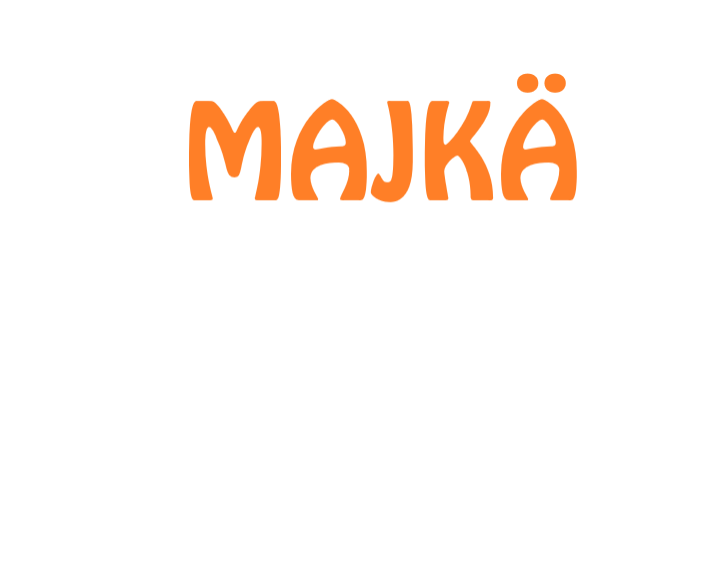
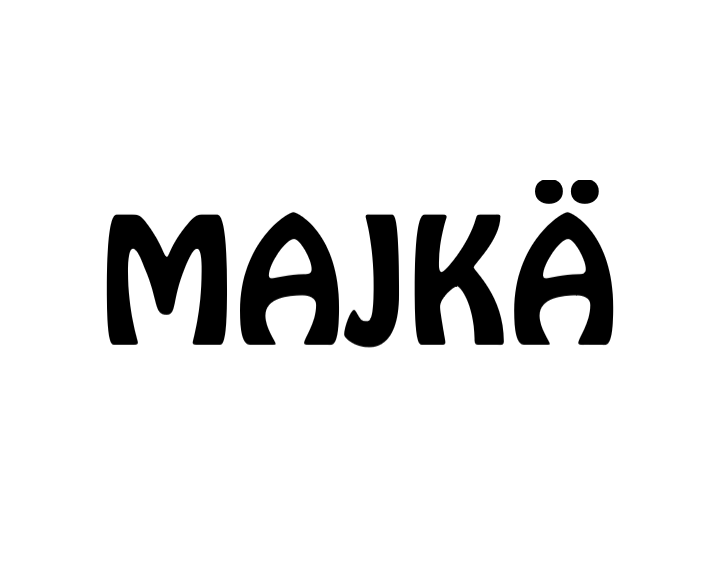
brunlol

Changed region(s): [[0.1239, 0.1199, 0.8676, 0.6296]]

diff --git a/src/videogame/Game.java b/src/videogame/Game.java
@@ -27,6 +27,7 @@ public class Game implements Runnable{
     private boolean pause;          // to pause the game
     private boolean manual;         // to show the manual of the game
     private boolean inDoor;
+    private boolean tutorial;       // to show the tutorial at the begining of the game
     private KeyManager keyManager;  // to manage the keyboard
     private MouseManager mouseManager; // to manage the mouse
     private Player player;          // first player
@@ -36,6 +37,8 @@ public class Game implements Runnable{
     private int level=0;              //for the level of the map
     private int x0,xf,y0,yf,dx,dy,px,py;  //data for the map limits and the doors
     private int enemies;            //number of enemies in each map
+    private int contador = 0;   // delay to shoot
+    int count=0;
     private Map map = new Map(0);                //to read the data of every map
     private BufferedImage mapImage;
     private ArrayList<Mob> hadoukens;      // simple hadoukens list
@@ -147,14 +150,15 @@ public class Game implements Runnable{
             if(this.getMouseManager().getX()>=482 && this.getMouseManager().getX() <= 891 && this.getMouseManager().getY()>=520 && this.getMouseManager().getY() <= 593)
                 System.exit(0);
         }
-        if(this.getKeyManager().P) {
+        if(this.getKeyManager().P && state == STATE.game) {
             this.setPause(!this.isPaused());
             this.setManual(false);
         } //for pausing the game
         
-        if(this.getKeyManager().M) this.setManual(!this.isManual()); // for showing the manual of the game
+        if(this.getKeyManager().M && state == STATE.game) this.setManual(!this.isManual()); // for showing the manual of the game
         
         if(!this.isPaused() && state == STATE.game){ // if the game is not paused then
+            contador++;
             if(spacebarCooldown == 0){
                 if(getKeyManager().Space){
                     spacebarCooldown = 30;
@@ -172,7 +176,7 @@ public class Game implements Runnable{
             player.tick();
             if(player.getX() <= dx+160 && player.getX()>=dx-160 &&player.getY()<=dy+160 && player.getY()>=dy-160 && spaniards.isEmpty()){
                 inDoor=true;
-                if(getKeyManager().Enter){                                    
+                if(getKeyManager().Enter && contador > 1200){                                    
                     level++;
                     loadMap();
                 }
@@ -231,7 +235,14 @@ public class Game implements Runnable{
             g = bs.getDrawGraphics();
             
             //Insert code here!!
-            if(isPaused()){ //for displaying the paused image
+            
+            if(count<=400){
+                g.drawImage(Assets.logo,0,0,this.getWidth(),this.getHeight(),null);
+                count++;
+            } else if(state == STATE.menu){
+                g.drawImage(Assets.logo,0,0,this.getWidth(),this.getHeight(),null);
+                g.drawImage(Assets.mainMenu,0,0,this.getWidth(),this.getHeight(),null);
+            } else if(isPaused()){ //for displaying the paused image
                 g.drawImage(mapImage, 0, 0, getWidth(), getHeight(), null);
                 if(spaniards.isEmpty())
                 if(dx==1370 || dx ==19)g.drawImage(Assets.door, dx, dy, -60, 200, null);
@@ -246,17 +257,15 @@ public class Game implements Runnable{
                 else{
                     g.drawImage(Assets.pause, 0, 0, width, height, null);
                 }
-            } else if(state == STATE.menu){
-                g.drawImage(Assets.mainMenu,0,0,this.getWidth(),this.getHeight(),null);
             } else if(!isPaused()){
                 g.drawImage(mapImage, 0, 0, getWidth(), getHeight(), null);
                 if(spaniards.isEmpty())
-                if(dx==1370 || dx ==19)g.drawImage(Assets.door, dx, dy, -60, 200, null);
-                else g.drawImage(Assets.door1, dx, dy, 200, 60, null);
+                    if(dx==1370 || dx ==19)g.drawImage(Assets.door, dx, dy, -60, 200, null);
+                    else g.drawImage(Assets.door1, dx, dy, 200, 60, null);
             
-                if(inDoor){
+                if(inDoor && contador > 1200){
                     g.setColor(Color.white);
-                    g.drawString("Press ENTER to use the door", player.getX(), player.getY()+120);
+                    g.drawString("Presiona ENTER para usar la puerta", player.getX(), player.getY()+120);
                 }
                     
                 //HADOUKENS!!!
@@ -275,6 +284,8 @@ public class Game implements Runnable{
                     popups.get(i).render(g);
                     if(popups.get(i).hasEnded())popups.remove(i);
                 }
+                if(contador <= 600) g.drawImage(Assets.texto1, 0, 2*getHeight()/3, getWidth(), getHeight()/3, null);
+                else if(contador >= 600 && contador <= 1200) g.drawImage(Assets.texto, 0, 2*getHeight()/3, getWidth(), getHeight()/3, null);
             }
             
             bs.show();

diff --git a/src/videogame/Assets.java b/src/videogame/Assets.java
@@ -14,7 +14,7 @@ public class Assets {
     
     public static Animation playerLBasic,playerRBasic,playerUBasic,playerDBasic, playerIddleBasic;
     public static Animation spaniardLBasic,spaniardRBasic,spaniardUBasic,spaniardDBasic, spaniardIddleBasic;
-    public static BufferedImage map, minimap, boom, pow, bam, cloudParticles, pause, mainMenu, manual,door,door1;
+    public static BufferedImage map, minimap, boom, pow, bam, cloudParticles, pause, mainMenu, manual,door,door1, texto, texto1, logo;
     public static SoundClip music;
     public static SoundClip shoot, hit, ouchEnemy, ouchPlayer;
     
@@ -40,6 +40,9 @@ public class Assets {
             manual = ImageLoader.loadImage("/images/tutorial.png");
             door = ImageLoader.loadImage("/images/door.png");
             door1 = ImageLoader.loadImage("/images/door1.png");
+            texto = ImageLoader.loadImage("/images/texto.png");
+            texto1 = ImageLoader.loadImage("/images/texto1.png");
+            logo = ImageLoader.loadImage("/images/mj.png");
             
             SpriteSheet sprites1 = new SpriteSheet(ImageLoader.loadImage("/images/playerLeftBasic.png"));
             SpriteSheet sprites2 = new SpriteSheet(ImageLoader.loadImage("/images/playerRightBasic.png"));
